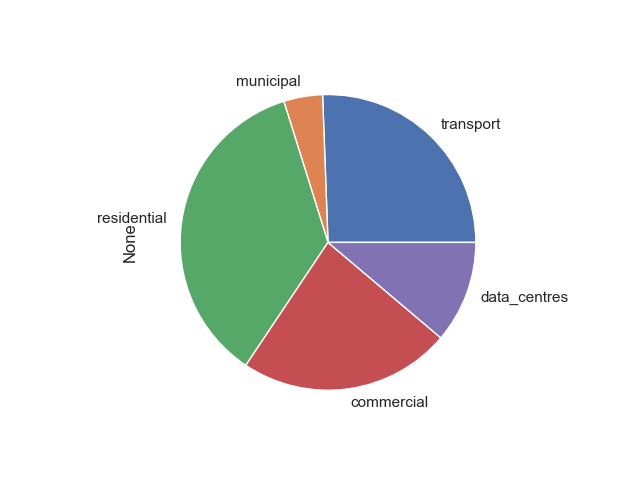
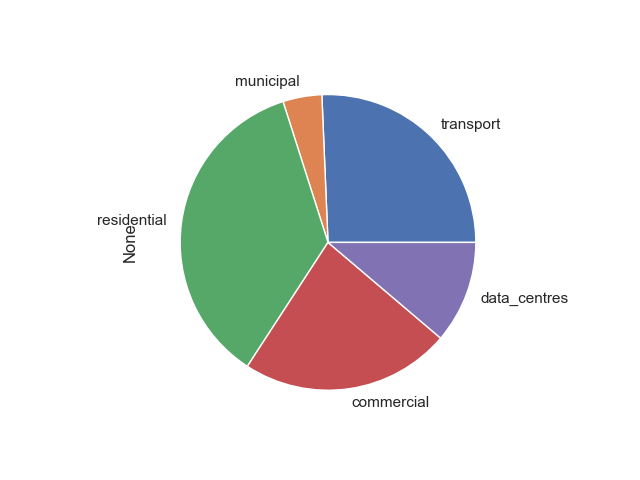
Remove DCs & Public Sector from Commercial
As DCs & public sector are already accounted by better sources

diff --git a/all-of-dublin-stats/pipeline.py b/all-of-dublin-stats/pipeline.py
@@ -104,7 +104,7 @@ with Flow("Extract infrastructure small area line lengths") as flow:
     ).set_upstream(create_folder_structure)
 
     # from Valuation Office
-    commercial_buildings = tasks.load_commercial(
+    raw_commercial_buildings = tasks.load_commercial(
         URLS["commercial"], INPUT_FILEPATHS["commercial"]
     ).set_upstream(create_folder_structure)
 
@@ -149,6 +149,21 @@ with Flow("Extract infrastructure small area line lengths") as flow:
         ],
     )
 
+    commercial_without_public_sector = tasks.remove_rows(
+        raw_commercial_buildings,
+        "Benchmark",
+        [
+            "Emergency services",
+            "Hospital (clinical and research)",
+            "Schools and seasonal public buildings",
+        ],
+    )
+    commercial_without_data_centres = tasks.remove_rows(
+        commercial_without_public_sector,
+        "Benchmark",
+        ["Data Centre"],
+    )
+    commercial_buildings = commercial_without_public_sector
     commercial_electricity_mwh = (
         tasks.sum_column(commercial_buildings, "electricity_demand_kwh_per_y")
         * kwh_to_mwh

diff --git a/all-of-dublin-stats/tasks.py b/all-of-dublin-stats/tasks.py
@@ -16,6 +16,8 @@ read_csv = prefect.task(pd.read_csv)
 read_parquet = prefect.task(pd.read_parquet)
 read_json = prefect.task(pd.read_json)
 
+remove_rows = prefect.task(functions.remove_rows, name="Remove Rows")
+
 sum_column = prefect.task(lambda df, c: float(df[c].sum()), name="Sum Column")
 estimate_residential_emissions = prefect.task(functions.estimate_residential_emissions)
 create_series = prefect.task(pd.Series)

diff --git a/all-of-dublin-stats/functions.py b/all-of-dublin-stats/functions.py
@@ -37,6 +37,11 @@ def load_parquet(url: str, filepath: Path) -> pd.DataFrame:
     return df
 
 
+def remove_rows(df: pd.DataFrame, column: str, values: List[str]) -> pd.DataFrame:
+    rows_corresponding_to_values = df[column].isin(values)
+    return df[~rows_corresponding_to_values].copy()
+
+
 def estimate_residential_emissions(
     bers: pd.DataFrame,
     electricity_mwh: float,
